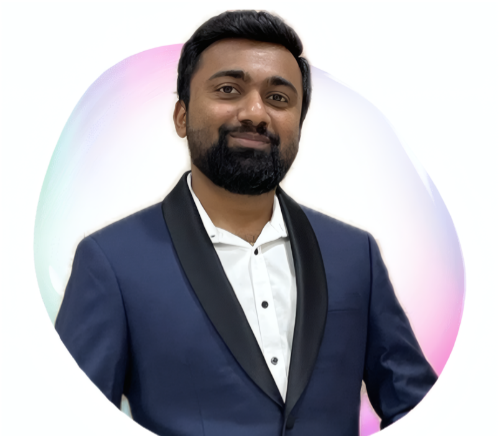
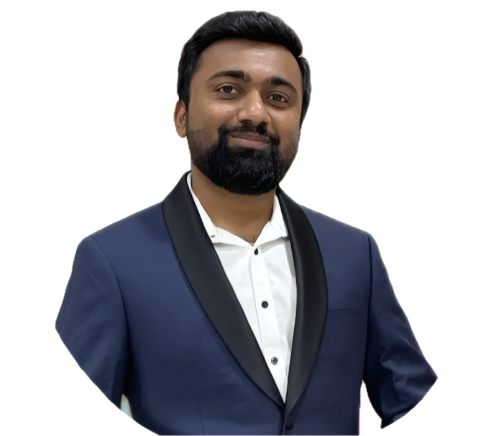
applying dark mode

diff --git a/src/components/ProfileCard.tsx b/src/components/ProfileCard.tsx
@@ -2,6 +2,9 @@
 
 import { motion } from 'framer-motion';
 import Image from 'next/image';
+import { useState, useEffect } from 'react';
+import { CodeBracketIcon, CloudIcon, LightBulbIcon } from '@heroicons/react/24/outline';
+import { useTheme } from './ThemeProvider';
 
 interface ProfileCardProps {
   name: string;
@@ -9,26 +12,107 @@ interface ProfileCardProps {
   bio: string;
 }
 
+interface HighlightProps {
+  icon: React.ReactNode;
+  title: string;
+  description: string;
+}
+
+const Highlight: React.FC<HighlightProps> = ({ icon, title, description }) => (
+  <div className="flex items-start space-x-3">
+    <div className="flex-shrink-0">
+      <div className="p-2 bg-primary/10 rounded-lg">
+        {icon}
+      </div>
+    </div>
+    <div>
+      <h4 className="font-semibold text-primary dark:text-primary/90">{title}</h4>
+      <p className="text-sm text-gray-600 dark:text-gray-400">{description}</p>
+    </div>
+  </div>
+);
+
 export const ProfileCard: React.FC<ProfileCardProps> = ({ name, title, bio }) => {
+  const { theme } = useTheme();
+  const [isDark, setIsDark] = useState(false);
+  
+  useEffect(() => {
+    setIsDark(
+      theme === 'dark' || 
+      (theme === 'system' && window.matchMedia('(prefers-color-scheme: dark)').matches)
+    );
+
+    const mediaQuery = window.matchMedia('(prefers-color-scheme: dark)');
+    const handleChange = (e: MediaQueryListEvent) => {
+      if (theme === 'system') {
+        setIsDark(e.matches);
+      }
+    };
+
+    mediaQuery.addEventListener('change', handleChange);
+    return () => mediaQuery.removeEventListener('change', handleChange);
+  }, [theme]);
+
+  const highlights = [
+    {
+      icon: <CodeBracketIcon className="w-5 h-5 text-primary" />,
+      title: "Full-Stack Expert",
+      description: "12+ years building enterprise solutions with React, Java Spring Boot, and AWS"
+    },
+    {
+      icon: <LightBulbIcon className="w-5 h-5 text-primary" />,
+      title: "AI Innovation",
+      description: "Pioneering AI-augmented engineering with Amazon Q and RAG/DSPy"
+    },
+    {
+      icon: <CloudIcon className="w-5 h-5 text-primary" />,
+      title: "Cloud Architecture",
+      description: "Extensive experience with AWS, Kubernetes, and modern DevOps practices"
+    }
+  ];
+
   return (
     <motion.div
       initial={{ opacity: 0, scale: 0.9 }}
       animate={{ opacity: 1, scale: 1 }}
-      className="bg-white dark:bg-gray-800 rounded-xl shadow-xl overflow-hidden"
+      className="bg-card rounded-xl shadow-xl overflow-hidden"
     >
-      <div className="relative h-48 w-full bg-white">
+      <div className="relative mt-6 mx-6 h-48 w-full overflow-hidden">
+        <div className="relative inset-0 bg-gradient-to-b from-accent-1/40 via-accent-2/20 to-card backdrop-blur-[2px]" />
         <Image
-          src="/profile.png"
+          src={isDark ? "/profile-dark.png" : "/profile-light.png"}
           alt={name}
-          fill
-          className="object-contain"
+          width={400}
+          height={400}
+          className="relative w-auto h-48 object-contain object-left mix-blend-normal z-10"
           priority
         />
       </div>
       <div className="p-6">
-        <h2 className="text-2xl font-bold mb-2">{name}</h2>
-        <h3 className="text-lg text-gray-600 dark:text-gray-300 mb-4">{title}</h3>
-        <p className="text-gray-600 dark:text-gray-400">{bio}</p>
+        <motion.div
+          initial={{ opacity: 0, y: 20 }}
+          animate={{ opacity: 1, y: 0 }}
+          transition={{ delay: 0.2 }}
+        >
+          <h2 className="text-3xl font-bold mb-2 bg-gradient-to-r from-primary to-primary/70 text-transparent bg-clip-text">
+            {name}
+          </h2>
+          <h3 className="text-xl text-gray-600 dark:text-gray-300 mb-4">{title}</h3>
+          <p className="text-gray-600 dark:text-gray-400 mb-6">{bio}</p>
+          
+          <div className="space-y-4 mt-6 border-t pt-6">
+            {highlights.map((highlight, index) => (
+              <motion.div
+                key={highlight.title}
+                initial={{ opacity: 0, x: -20 }}
+                animate={{ opacity: 1, x: 0 }}
+                transition={{ delay: 0.4 + index * 0.1 }}
+              >
+                <Highlight {...highlight} />
+              </motion.div>
+            ))}
+          </div>
+        </motion.div>
       </div>
     </motion.div>
   );

diff --git a/src/app/page.tsx b/src/app/page.tsx
@@ -7,10 +7,12 @@ import { Experience } from "@/components/Experience";
 import { Contact } from "@/components/Contact";
 import { motion } from "framer-motion";
 import Image from "next/image";
+import { ThemeToggle } from "@/components/ThemeToggle";
 
 export default function Home() {
   return (
     <div className="min-h-screen bg-background">
+      <ThemeToggle />
       <div className="max-w-7xl mx-auto px-4 sm:px-6 lg:px-8 py-12">
         <motion.div 
           initial={{ opacity: 0 }}
@@ -21,8 +23,8 @@ export default function Home() {
           <div className="grid gap-8 md:grid-cols-2">
             <ProfileCard
               name="Jubin Savla"
-              title="Full Stack Developer"
-              bio="Passionate about building scalable web applications and solving complex problems with elegant solutions."
+              title="Solution Designer & Senior Engineer"
+              bio="Award-winning software architect with Black-Belt certification, specializing in AI-augmented engineering and enterprise-scale solutions. Recognized innovator with multiple GovHack honors, driving technological advancement in banking and financial services."
             />
             
             <Terminal className="h-full">

diff --git a/src/components/ThemeToggle.tsx b/src/components/ThemeToggle.tsx
@@ -1,0 +1,34 @@
+'use client';
+
+import { SunIcon, MoonIcon, ComputerDesktopIcon } from '@heroicons/react/24/outline';
+import { useTheme } from './ThemeProvider';
+
+export function ThemeToggle() {
+  const { theme, setTheme } = useTheme();
+
+  return (
+    <div className="fixed top-5 right-5 flex items-center space-x-2 bg-gray-100 dark:bg-gray-800 rounded-lg p-2">
+      <button
+        onClick={() => setTheme('light')}
+        className={`p-2 rounded-lg ${theme === 'light' ? 'bg-white shadow-sm' : ''}`}
+        aria-label="Light mode"
+      >
+        <SunIcon className="w-5 h-5" />
+      </button>
+      <button
+        onClick={() => setTheme('dark')}
+        className={`p-2 rounded-lg ${theme === 'dark' ? 'bg-gray-700 shadow-sm' : ''}`}
+        aria-label="Dark mode"
+      >
+        <MoonIcon className="w-5 h-5" />
+      </button>
+      <button
+        onClick={() => setTheme('system')}
+        className={`p-2 rounded-lg ${theme === 'system' ? 'bg-white dark:bg-gray-700 shadow-sm' : ''}`}
+        aria-label="System theme"
+      >
+        <ComputerDesktopIcon className="w-5 h-5" />
+      </button>
+    </div>
+  );
+}

diff --git a/src/components/ThemeProvider.tsx b/src/components/ThemeProvider.tsx
@@ -1,0 +1,42 @@
+'use client';
+
+import { createContext, useContext, useEffect, useState } from 'react';
+
+type Theme = 'light' | 'dark' | 'system';
+
+interface ThemeContextType {
+  theme: Theme;
+  setTheme: (theme: Theme) => void;
+}
+
+const ThemeContext = createContext<ThemeContextType | undefined>(undefined);
+
+export function ThemeProvider({ children }: { children: React.ReactNode }) {
+  const [theme, setTheme] = useState<Theme>('system');
+
+  useEffect(() => {
+    const root = window.document.documentElement;
+    root.classList.remove('light', 'dark');
+
+    if (theme === 'system') {
+      const systemTheme = window.matchMedia('(prefers-color-scheme: dark)').matches ? 'dark' : 'light';
+      root.classList.add(systemTheme);
+    } else {
+      root.classList.add(theme);
+    }
+  }, [theme]);
+
+  return (
+    <ThemeContext.Provider value={{ theme, setTheme }}>
+      {children}
+    </ThemeContext.Provider>
+  );
+}
+
+export function useTheme() {
+  const context = useContext(ThemeContext);
+  if (context === undefined) {
+    throw new Error('useTheme must be used within a ThemeProvider');
+  }
+  return context;
+}

diff --git a/src/app/globals.css b/src/app/globals.css
@@ -3,19 +3,27 @@
 @tailwind utilities;
 
 :root {
+  --primary: #0070f3;
+  --primary-light: #3291ff;
+}
+
+:root[class~="light"],
+:root:not([class~="dark"]) {
   --background: #ffffff;
   --foreground: #171717;
 }
 
-@media (prefers-color-scheme: dark) {
-  :root {
-    --background: #0a0a0a;
-    --foreground: #ededed;
-  }
+:root[class~="dark"] {
+  --background: #0a0a0a;
+  --foreground: #ededed;
 }
 
 body {
   background-color: var(--background);
   color: var(--foreground);
   font-family: var(--font-geist-sans), system-ui, sans-serif;
+}
+
+.object-left {
+  object-position: left;
 }

diff --git a/src/app/layout.tsx b/src/app/layout.tsx
@@ -1,6 +1,7 @@
 import type { Metadata } from "next";
 import { Geist, Geist_Mono } from "next/font/google";
 import "./globals.css";
+import { ThemeProvider } from "@/components/ThemeProvider";
 
 const geistSans = Geist({
   variable: "--font-geist-sans",
@@ -27,7 +28,9 @@ export default function RootLayout({
       <body
         className={`${geistSans.variable} ${geistMono.variable} antialiased`}
       >
-        {children}
+        <ThemeProvider>
+          {children}
+        </ThemeProvider>
       </body>
     </html>
   );
